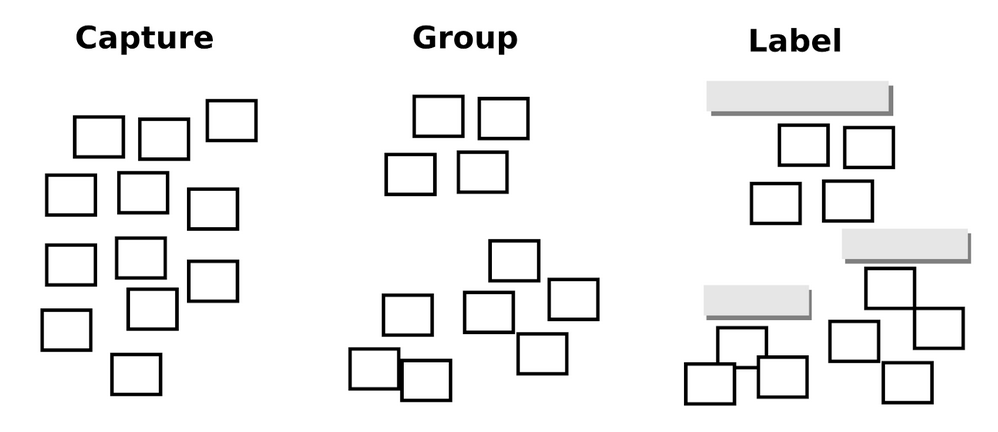
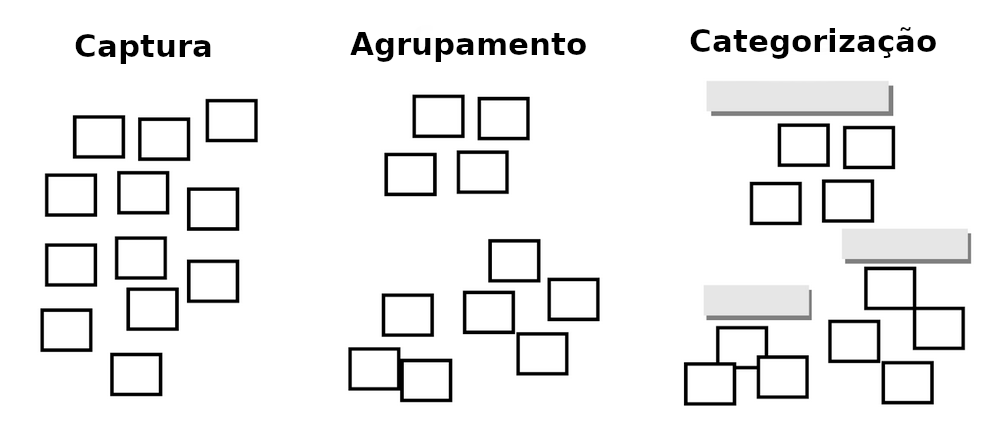
Estado da arte revisado

Changed region(s): [[0.3417, 0.0602, 0.5902, 0.1505], [0.6834, 0.0602, 0.9629, 0.1505], [0.0621, 0.0602, 0.2174, 0.1505]]

diff --git a/03_estado_arte.tex b/03_estado_arte.tex
@@ -1,21 +1,21 @@
 \chapter{Trabalhos Relacionados}
 \label{c_estado_arte}
 
-Este capítulo apresenta trabalhos similares ao que se propõe nesta pesquisa. Ele está dividido em três seções. A \autoref{sec_tools} apresenta ferramentas que buscam auxiliar crianças nos primeiros contatos com algoritmos por meio da depuração. A \autoref{sec_rsl} apresenta uma revisão sistemática da literatura (RSL) sobre pesquisas que observam a interação de crianças de 3 a 6 anos com BPs. A intenção é compreender quais interfaces são comumente utilizadas, quais são os designs experimentais aplicados e que resultados são obtidos, para fundamentar a escolha do design experimental desta pesquisa. Por fim, a \autoref{secao_mapeamento_industrial} apresenta um mapeamento industrial\footnote{Método de busca baseado em fontes não acadêmicas, mas que segue um método sistemático. Também chamado de mapeamento industrial sistemático.} sobre as interfaces de BPs, que demonstra quais tipos de interface estão disponíveis no comércio eletrônico. %Enquanto na \autoref{sub_sub_aplicacoes_ra_projetiva_educacao} apresenta aplicação de RA projetiva em ferramentas educacionais, o mapeamento indica que a técnica   no contexto de BPs.
+Este capítulo apresenta trabalhos similares ao que se propõe nesta pesquisa. Ele está dividido em três seções. A \autoref{sec_tools} apresenta ferramentas que buscam auxiliar crianças nos primeiros contatos com algoritmos por meio da depuração. A \autoref{sec_rsl} apresenta uma revisão sistemática da literatura (RSL) sobre pesquisas que observam a interação de crianças de 3 a 6 anos com BPs. O objetivo desta revisão é compreender quais interfaces são comumente utilizadas, os designs experimentais aplicados e resultados obtidos, para fundamentar a escolha do design experimental desta pesquisa. Por fim, a \autoref{secao_mapeamento_industrial} apresenta um mapeamento industrial\footnote{Método de busca baseado em fontes não acadêmicas, mas que segue um método sistemático. Também denominado mapeamento industrial sistemático.} sobre as interfaces de BPs, que demonstra quais categorias de interfaces estão disponíveis no comércio eletrônico.
 
 \section{Interfaces de Brinquedos Programáveis}
 \label{sec_tools}
-Esta seção tem por objetivo demonstrar interfaces para crianças terem os primeiros contatos com algoritmos utilizando BPs. Para isso, identifica as características de cada trabalho e compara com a solução proposta. Os critérios utilizados para a escolha dos trabalhos relacionados foram o público-alvo (crianças a partir dos 4 anos), a visibilidade dos algoritmos por meio de interfaces tangíveis e o uso de BPs. Assim, foram analisados quatro trabalhos:
+Esta seção demonstra interfaces destinadas para crianças terem os primeiros contatos com algoritmos utilizando BPs. Para isso, identifica as características de cada trabalho e compara com a solução proposta. Os critérios utilizados para a escolha dos trabalhos relacionados foram: a) o público-alvo (crianças a partir dos 4 anos), b) a visibilidade dos algoritmos através de interfaces tangíveis e c) o uso de BPs. Assim, foram analisados quatro trabalhos:
 
 \begin{enumerate}
     \item Robo-Blocks: uma interface tangível eletrônica para programação de BPs, com foco em ensino de depuração \cite{sipitakiat_robo-blocks_2012}.
-    \item Cubetto: um BP com interface tangível de painel, que indica a execução de cada comando por meio de luzes (\url{https://www.primotoys.com}).
-    \item Bee-Bot com mesa interativa: uma mesa interativa com objetos tangíveis, que projeta um mapa interativo que reage aos posicionamento dos objetos físicos em sua superfície \cite{beraza_soft_2010}.
-    \item ALERT: interface de programação interativa, na qual o BP interpreta comandos à medida que os detecta via câmera \cite{burleson_active_2018}.
+    \item Cubetto: um BP com interface tangível de painel, que indica a execução de cada comando por luzes (\url{https://www.primotoys.com}).
+    \item Bee-Bot com mesa interativa: uma mesa interativa com objetos tangíveis, que projeta um mapa interativo que reage ao posicionamento dos objetos físicos em sua superfície \cite{beraza_soft_2010}.
+    \item ALERT: interface de programação interativa, em que o BP interpreta comandos à medida que os detecta via câmera \cite{burleson_active_2018}.
 \end{enumerate}
 
 \subsection{Robo-Blocks}
-O Robo-Blocks, de \citeonline{sipitakiat_robo-blocks_2012}, é um sistema que permite que crianças comandem um BP por meio do encaixe de blocos eletrônicos. Os quatro movimentos básicos do robô são iguais aos do brinquedo RoPE (mover-se para frente, para trás, girar à esquerda e girar à direita), porém as crianças também podem parametrizar a extensão do movimento do robô ajustando um controle giratório presente em cada bloco (\autoref{fig:robo_blocks}). Os blocos são encaixados por conectores magnéticos, formando uma sequência. Essa sequência se liga a um bloco principal, que envia os comandos ao BP por comunicação sem fio. O BP, por sua vez, é inspirado na tartaruga do ambiente Logo. Ele tem uma caneta acoplada que permite desenhar ao serem utilizados blocos de \textit{"pen up"} (erguer caneta) e \textit{"pen down"} (baixar caneta).
+O Robo-Blocks, de \citeonline{sipitakiat_robo-blocks_2012}, é um sistema que permite que crianças comandem um BP por meio do encaixe de blocos eletrônicos. Os quatro movimentos básicos do robô são iguais aos do brinquedo RoPE (mover-se para frente, para trás, girar à esquerda e girar à direita), porém as crianças também podem parametrizar a extensão do movimento do robô ajustando um controle giratório presente em cada bloco (\autoref{fig:robo_blocks}). Os blocos são encaixados por conectores magnéticos, formando uma sequência. Essa sequência se liga a um bloco principal, que envia os comandos ao BP por comunicação sem fio. O BP é inspirado na tartaruga do ambiente Logo. Ele tem uma caneta acoplada que permite desenhar ao serem utilizados blocos de \textit{"pen up"} (erguer caneta) e \textit{"pen down"} (baixar caneta).
 
 \begin{figure}[!h]
     \centering
@@ -102,12 +102,12 @@ Com relação à depuração, a programação interativa se apresenta como um di
 
 As seções anteriores apresentaram quatro trabalhos relacionados com programação de brinquedos programáveis.. Esta seção compara estes trabalhos quanto às seguintes características: idade do público-alvo, tipo de interface, e depuração (\autoref{quadro:comparision}). Por fim, os trabalhos são posicionados em relação à solução proposta.
 
-Em relação ao público-alvo, o Robo-Blocks foca em crianças de 8 a 9 anos, pois a criança precisa entender basicamente o significado dos algarismos numéricos ao parametrizar o ângulo do giro do robô, e nesta idade as crianças normalmente aprenderam ler \cite{committee_on_the_prevention_of_reading_difficulties_in_young_children_preventing_1998}. Em contrapartida, o Cubetto, a Bee-Bot\footnote{Existem versões com texto nos botões \it{clear}, \it{go} e \it{pause}, mas os botões provocam sempre o mesmo comportamento. Mesmo que não saiba ler, a criança consegue mapear a ação do botão com sua funcionalidade.} e o ALERT não dependem diretamente de números, e por isso atendem um público a partir dos 4 anos.
+Em relação ao público-alvo, o Robo-Blocks foca em crianças de 8 a 9 anos, pois a criança precisa entender basicamente o significado dos algarismos numéricos ao parametrizar o ângulo do giro do robô, e nesta idade as crianças normalmente já aprenderam a ler \cite{committee_on_the_prevention_of_reading_difficulties_in_young_children_preventing_1998}. Em contrapartida, o Cubetto, a Bee-Bot\footnote{Existem versões com texto nos botões \it{clear}, \it{go} e \it{pause}, mas os botões provocam sempre o mesmo comportamento. Mesmo que não saiba ler, a criança consegue mapear a ação do botão com sua funcionalidade.} e o ALERT não dependem diretamente de números, e atendem um público a partir dos 4 anos.
 
-Com relação ao tipo de interface, todos os trabalhos utilizam interface tangível, mas seguindo diferentes abordagens. O Robo-Blocks tem blocos eletrônicos, que são encaixados entre si e possuem um display que mostra o tamanho do avanço ou giro. A programação do Cubetto também se dá por blocos tangíveis, porém sem visores e controles ajustáveis. Tudo o que a criança faz é encaixar os blocos em um painel. O ALERT tem blocos ainda mais simples. Foram usadas folhas de papel com as marcas fiduciais impressas, o que tende a ser mais barato e fácil de reproduzir. Por fim, a interface tangível da Bee-Bot não tem blocos, mas sim botões  \cite{yu_review_2019}. Apesar das diferentes abordagens, todos os trabalhos mencionam engajamento das crianças durante as interações, sejam elas com blocos eletrônicos, com as folhas de papel ou com os botões.
+Com relação à interface, todos os trabalhos utilizam interface tangível, mas seguindo diferentes abordagens. O Robo-Blocks tem blocos eletrônicos encaixados entre si e que possuem um display que mostra o tamanho do avanço ou giro. A programação do Cubetto também se dá por blocos tangíveis, porém sem visores e controles ajustáveis. Tudo o que a criança faz é encaixar os blocos em um painel. O ALERT tem blocos ainda mais simples. Foram usadas folhas de papel com as marcas fiduciais impressas, o que tende a ser mais barato e fácil de reproduzir. Por fim, a interface tangível da Bee-Bot não tem blocos, mas sim botões  \cite{yu_review_2019}. Apesar das diferentes abordagens, todos os trabalhos mencionam engajamento das crianças durante as interações, sejam elas com blocos eletrônicos, com as folhas de papel ou com os botões.
 
 Por fim, em relação à depuração, o Robo-Blocks é a interface com maior foco em facilitar a atividade de encontrar erros em algoritmos. Isso se dá por duas características: marcadores físicos (bandeiras) para indicar possíveis erros, e a função de execução passo a passo.
-No ALERT, os elementos de execução passo a passo são menos necessários. O brinquedo se move lentamente, e com isso há mais tempo para a criança olhar os comandos e comparar com os movimentos do robô. Além disso, o algoritmo pode ser alterado durante a execução. Se um comando desvia o brinquedo da rota, os passos subsequentes podem ser alterados para reajustá-la. A associação entre comando e ação também é mais óbvia no ALERT, pois o brinquedo precisa se aproximar do comando a ser executado. Quando um erro ocorre, fica claro qual foi o comando responsável. Quando os blocos eletrônicos ficam distântes do brinquedo esse mapeamento entre comando e ação é menos óbvio. Segundo  \citeonline{sipitakiat_robo-blocks_2012} as funções de depuração foram uma tentativa de resolver esse problema de mapeamento. A depuração no Cubetto é similar ao Robo-Blocks, pois o painel de programação fica distante do robô. Além disso, o Cubetto não tem execução passo a passo. Por fim, a interface de RA utilizada com a Bee-Bot  \cite{beraza_soft_2010} não tem visibilidade de código e nem funções de execução passo a passo, mas é similar ao trabalho aqui apresentado devido às tecnologias empregadas.
+No ALERT, os elementos de execução passo a passo são menos necessários. O brinquedo se move lentamente, e com isso há mais tempo para a criança olhar os comandos e comparar com os movimentos do robô. Além disso, o algoritmo pode ser alterado durante a execução. Se um comando desvia o brinquedo da rota, os passos subsequentes podem ser alterados para reajustá-la. A associação entre comando e ação também é mais óbvia no ALERT, pois o brinquedo precisa se aproximar do comando a ser executado. Quando um erro ocorre, fica claro qual foi o comando responsável. Quando os blocos eletrônicos ficam distantes do brinquedo esse mapeamento entre comando e ação é menos óbvio. Segundo  \citeonline{sipitakiat_robo-blocks_2012} as funções de depuração foram uma tentativa de resolver esse problema de mapeamento. A depuração no Cubetto é similar ao Robo-Blocks, pois o painel de programação fica distante do robô. Além disso, o Cubetto não tem execução passo a passo. Por fim, a interface de RA utilizada com a Bee-Bot  \cite{beraza_soft_2010} não tem visibilidade de código e nem funções de execução passo a passo, mas é similar ao trabalho aqui apresentado devido às tecnologias empregadas.
 
 {{\renewcommand{\arraystretch}{1.5}
     \begin{quadro}[!h]
@@ -117,10 +117,10 @@ No ALERT, os elementos de execução passo a passo são menos necessários. O br
         \textbf{Projeto ou ferramenta}  & \textbf{Idade do público-alvo}  & \textbf{Tipo de interface}       &\textbf{Depuração}                                          \\ \hline
         
         Robo-Blocks                     & 8 a 9 anos                      & Tangível com blocos eletrônicos  & Execução passo a passo, protractor e marcadores de erros   \\ \hline
-        Cubetto                         & 4 a 8 anos                      & Tangível com painel eletrônico   & Destaca blocos em execução                                 \\ \hline
+        Cubetto                         & 4 a 8 anos                      & Tangível com painel eletrônico   & Destaca os blocos em execução                                 \\ \hline
         Bee-Bot com mesa interativa     & 4-5 a 12-14 anos                & Tangível com botões              & -                                  \\ \hline
         ALERT                           & 6 anos                          & Tangível com projeção            & Permite alterar o comportamento do robô durante a execução \\ \hline
-        RoPE AR                   & 4 a 6 anos                      & Tangível com projeção            & Destaca blocos em execução                                 \\ \hline
+        RoPE AR                   & 4 a 6 anos                      & Tangível com projeção            & Destaca os blocos em execução                                 \\ \hline
         \end{tabularx}
         \vspace{-10pt}
         \sourceauthor
@@ -135,12 +135,12 @@ Por fim, um último diferencial é que no RoPE AR a projeção ocorre por cima, 
 
 \section{Revisão Sistemática: Pesquisas de IHC com crianças}
 \label{sec_rsl}
-Para compreender como são feitas as pesquisas sobre brinquedos programáveis com crianças, o método utilizado foi o de revisão sistemática \cite{kitchenham_guidelines_2007}. Esse método é um tipo de estudo que revisa estudos a respeito de uma pergunta de pesquisa, tópico ou fenômeno de interesse. No processo busca-se identificar, avaliar e interpretar as publicações relevantes para o tema em questão, e evitar o viés de quem produziu a pesquisa. Três questões exploratórias guiaram a busca:
+Para compreender como são feitas as pesquisas sobre brinquedos programáveis com crianças, o método utilizado foi o de revisão sistemática \cite{kitchenham_guidelines_2007}. Esse método revisa estudos a respeito de uma pergunta de pesquisa, tópico ou fenômeno de interesse. No processo busca-se identificar, avaliar e interpretar as publicações relevantes para o tema em questão, e evitar o viés de quem produziu a pesquisa. Três questões exploratórias guiaram a busca:
 
 \begin{itemize}
-    \item QE1 - Quais tipos de interfaces são usadas em pesquisas sobre aprendizado de algoritmos na Educação Infantil?
-    \item QE2 - Quais métodos e design de experimentos são utilizados?
-    \item QE3 - O que as crianças aprendem ao interagir com brinquedos programáveis?
+    \item QE1 — Quais categorias de interfaces são usadas em pesquisas sobre aprendizado de algoritmos na Educação Infantil?
+    \item QE2 — Quais métodos e design de experimentos são utilizados?
+    \item QE3 — O que as crianças aprendem ao interagir com brinquedos programáveis?
 \end{itemize}
 
 A seguinte busca foi adaptada para os artigos publicados nos anos de 2015 a 2020 nos repositórios ACM Digital Library, ERIC, IEEE Xplore e Science Direct:
@@ -149,7 +149,7 @@ A seguinte busca foi adaptada para os artigos publicados nos anos de 2015 a 2020
 
 \subsection{Resultados}
 
-Sobre os resultados obtidos com as buscas nos repositórios, foram aplicados os critérios de inclusão e exclusão primeiramente sobre os resumos e depois sobre o texto completo (\autoref{quadro_criterios}). Após a aplicação dos critérios, restaram 7 artigos.
+Sobre os resultados obtidos com as buscas nos repositórios foram aplicados os critérios de inclusão e exclusão, primeiramente sobre os resumos e em seguida sobre o texto completo (\autoref{quadro_criterios}). Com isso restaram 7 artigos.
 
 \begin{quadro}[!htbp]
 \caption{Critérios de inclusão e exclusão.}
@@ -163,7 +163,7 @@ Sobre os resultados obtidos com as buscas nos repositórios, foram aplicados os 
     \begin{minipage}{.45\textwidth}
         1. Estudos primários indicando intervenção relacionada a ensino/aprendizado de algoritmos na Educação Infantil \\
         2. Estudos publicados entre 2015 e 2020 \\
-        3. Estudos com crianças entre 3 e 6 anos \\
+        3. Público com idade entre 3 e 6 anos \\
     \end{minipage}
     
     &
@@ -175,8 +175,8 @@ Sobre os resultados obtidos com as buscas nos repositórios, foram aplicados os 
         3. Foco em formar professores \\
         4. Menos de 5 páginas  \\
         5. Estudos secundários ou terciários \\
-        6. Estudos focados em público-alvo diferente desta pesquisa \\
-        7. Estudos duplicados \\
+        6. Público-alvo diferente desta pesquisa \\
+        7. Publicações duplicadas \\
         8. Estudo que não aborda criação de algoritmos por crianças \\
         9. Estudo cujo texto completo não foi possível acessar \\
     \end{minipage}
@@ -186,7 +186,7 @@ Sobre os resultados obtidos com as buscas nos repositórios, foram aplicados os 
  \end{tabular}
 \end{quadro}
 
-O critério de inclusão 3 (idade entre 3 a 6 anos) filtrou 82 trabalhos, pois grande parte dos estudos tem público-alvo maior de 6 anos. O segundo critério que filtrou mais artigos (CI1) aplicou-se a 30 artigos que não apresentaram nenhum tipo de intervenção com crianças, a fim de mensurar resultados como a qualidade de alguma ferramenta ou aprendizado de algoritmos. Outros 15 trabalhos focaram em públicos específicos que se diferenciam do público desta pesquisa, e portanto foram desconsiderados. O \autoref{quadroartigosrsl} apresenta os artigos que passaram no filtro.
+O critério de inclusão 3 (idade entre 3 a 6 anos) filtrou 82 trabalhos com um público-alvo de crianças maiores de 6 anos. O segundo critério que filtrou mais artigos (CI1) filtrou 30 artigos que não apresentaram nenhuma intervenção com crianças para mensurar resultados de alguma ferramenta ou aprendizado de algoritmos. Outros 15 trabalhos focaram em públicos específicos que se diferenciam do público desta pesquisa. O \autoref{quadroartigosrsl} apresenta os artigos que passaram no filtro.
 
 \begin{table}[!htbp]
     \begin{center}
@@ -256,16 +256,16 @@ O critério de inclusão 3 (idade entre 3 a 6 anos) filtrou 82 trabalhos, pois g
     \citeonline{pila_learning_2019}
     \textit{Learning to code via tablet applications: An evaluation of Daisy the Dinosaur and Kodable as learning tools for young children} &
     
-    Pesquisa qualitativa com pré e pós teste. 28 crianças de 4 a 6 anos usaram, durante uma semana, 2 aplicativos para ensino de programação (Kodable e Daisy the Dinossaur). A pesquisa captou o quanto as crianças gostaram de cada aplicativo e a influência do gênero no desempenho. Também foi avaliado o reconhecimento de comandos antes e após a intervenção, com notas de 0 a 5 conforme \citeonline{bers_computational_2014}. &
+    Pesquisa qualitativa com pré e pós teste. Vinte e oito crianças de 4 a 6 anos usaram, durante uma semana, 2 aplicativos para ensino de programação (Kodable e Daisy the Dinossaur). A pesquisa captou o quanto as crianças gostaram de cada aplicativo e a influência do gênero no desempenho. Também foi avaliado o reconhecimento de comandos antes e após a intervenção, com notas de 0 a 5 conforme \citeonline{bers_computational_2014}. &
     
     Testes t identificaram um aumento significativo no reconhecimento dos comandos do aplicativo Daisy. Após uma semana foi possível identificar a compreensão de habilidades gerais de codificação. O “apelo” do aplicativo teve correlação com o aprendizado resultante, e o gênero não afetou o desempenho. \\ \hline
     
     \citeonline{burleson_active_2018}
     \textit{Active Learning Environments with Robotic Tangibles: Children's Physical and Virtual Spatial Programming Experiences} &
     
-    Pesquisa qualitativa comparando o uso de duas ferramentas de programação espacial, sendo uma virtual e outra tangível (Robopad e ALERT). 9 crianças de 6 anos, divididas em 4 grupos, interagiram durante 5 dias (num calendário de 2 semanas) com ambas as ferramentas. &
+    Pesquisa qualitativa comparando o uso de duas ferramentas de programação espacial, sendo uma virtual e outra tangível (Robopad e ALERT). Nove crianças de 6 anos, divididas em 4 grupos, interagiram durante 5 dias (num calendário de 2 semanas) com ambas as ferramentas. &
     
-    Usando o ALERT as crianças foram capazes de programar, colaborativamente, sequências para alterar o comportamento do robô. A ferramenta Robopad induziu mais a alterar/depurar o “programa” em tempo de execução.  \\ \hline
+    Usando o ALERT as crianças programaram, colaborativamente, sequências para alterar o comportamento do robô. A ferramenta Robopad induziu mais a alterar/depurar o “programa” em tempo de execução.  \\ \hline
     
     \citeonline{heljakka_gamified_2019}
     \textit{Gamified Coding: Toy Robots and Playful Learning in Early Education} &
@@ -281,15 +281,15 @@ O critério de inclusão 3 (idade entre 3 a 6 anos) filtrou 82 trabalhos, pois g
 
 \end{landscape}
 
-\subsection{QE1 - Quais tipos de interfaces são usadas em pesquisas sobre aprendizado de algoritmos na Educação Infantil? }
+\subsection{QE1 — Quais categorias de interfaces são usadas em pesquisas sobre aprendizado de algoritmos na Educação Infantil?}
 
-O tipo de interface mais citado nos resultados foram os brinquedos controlados por botões. A Bee-Bot apareceu em duas pesquisas, e outros brinquedos programados por botões foram a TurtleBot e o Botley. Aplicativos citados foram o ScratchJr, a interface do Dash, o Kodable, e \textit{Daisy the Dinossaur}. Outro tipo de interface citado é a espacial: \citeonline{burleson_active_2018} apresenta o ALERT e o Robopad, em que os agentes se movem no espaço e captam os comandos do ambiente.
+A categoria de interface mais citada foram os brinquedos controlados por botões. A Bee-Bot apareceu em duas pesquisas, e outros brinquedos programados por botões foram a TurtleBot e o Botley. Aplicativos citados foram o ScratchJr, a interface do Dash, o Kodable, e \textit{Daisy the Dinossaur}. Outra interface citada é a espacial: \citeonline{burleson_active_2018} apresenta o ALERT e o Robopad, em que os agentes se movem no espaço e captam os comandos do ambiente.
 
-Além das interfaces, outra variável a ser considerada são os tipos de atividades realizadas. Uma mesma interface, utilizada de modos diferentes, pode gerar diferentes aprendizados. A sequência de atividades do TangibleK Robotics Currículum, desenvolvida por \citeonline{bers_computational_2014} foi aplicada por \citeonline{repiso_robotics_2019} e por \citeonline{pila_learning_2019}. Dividida em 7 encontros, o primeiro dia de atividades iniciou com a exploração da interface da Bee-Bot, seguida (nos dias 2 e 3) da programação do brinquedo para se deslocar sobre tapetes. Nos dias 4 e 5 foram introduzidas cartas correspondentes às instruções, para serem sequenciadas e depois comparadas com os movimentos do brinquedo. Nos dias 6 e 7 foram mostradas sequências de comandos com erros, e as crianças exercitaram a depuração ao encontrar esses erros.
+Além das interfaces, outra variável a ser considerada são as atividades realizadas. Uma mesma interface, utilizada de modos diferentes, pode gerar diferentes aprendizados. A sequência de atividades do TangibleK Robotics Curriculum, desenvolvida por \citeonline{bers_computational_2014} foi aplicada por \citeonline{repiso_robotics_2019} e por \citeonline{pila_learning_2019}. Dividida em 7 encontros, o primeiro dia de atividades iniciou com a exploração da interface da Bee-Bot, seguida (nos dias 2 e 3) da programação do brinquedo para se deslocar sobre tapetes. Nos dias 4 e 5 foram introduzidas cartas correspondentes às instruções, para serem sequenciadas e depois comparadas com os movimentos do brinquedo. Nos dias 6 e 7 foram mostradas sequências de comandos com erros, e as crianças exercitaram a depuração ao encontrar esses erros.
 
-\citeonline{di_lieto_educational_2017} apresenta atividades de dificuldade incremental, em que as crianças precisavem programar a Bee-Bot para se deslocar sobre um tapete de formas cada vez mais complexas. \citeonline{heljakka_gamified_2019} não definiram nenhuma atividade específica para as crianças, apenas permitiram a exploração dos brinquedos Botley e Dash por 6 meses.
+\citeonline{di_lieto_educational_2017} apresenta atividades de dificuldade incremental, em que as crianças precisavam programar a Bee-Bot para se deslocar sobre um tapete de formas cada vez mais complexas. \citeonline{heljakka_gamified_2019} não definiram nenhuma atividade específica para as crianças, apenas permitiram a exploração dos brinquedos Botley e Dash por 6 meses.
 
-\subsection{QE2 - Quais métodos e design de experimentos são utilizados?}
+\subsection{QE2 — Quais métodos e design de experimentos são utilizados?}
 
 O método mais utilizado foi a pesquisa quasi-experimental, com pré e pós teste. Das 7 pesquisas, 4 foram quantitativas, 2 qualitativas e uma mista. Além disso, \citeonline{nam_connecting_2019} e \citeonline{repiso_robotics_2019} utilizaram grupos de controle e experimental.
 
@@ -297,13 +297,13 @@ O tempo das intervenções variou consideravelmente. As pesquisas objetivando me
 
 As amostras utilizadas foram de conveniência, com experimentos realizados nos ambientes escolares. O tamanho das amostras variou entre 9 e 31 crianças, que trabalharam em grupos em 6 das 7 pesquisas. As fontes de dados utilizadas foram vídeos, mapa de eventos, rubricas, transcrições, e entrevistas.
 
-\subsection{QE3 - O que as crianças aprendem ao interagir com brinquedos programáveis?}
+\subsection{QE3 — O que as crianças aprendem ao interagir com brinquedos programáveis?}
 
-Os trabalhos citam principalmente o aprendizado de sequenciamento e de algoritmos em geral. \citeonline{pila_learning_2019}, após a interação de um conjunto de crianças durante 5 dias com os aplicativos Daisy e Kodable, perguntaram às crianças “O que é programar?”. A nota máxima foi dada a respostas que apresentavam a ideia de causa e efeito aplicável à tecnologia em geral, por exemplo “programar é colocar código em algo para que faça alguma ação”. Os resultados indicaram que as crianças não evoluíram na capacidade de expressar verbalmente seu entendimento de codificação.
+Os trabalhos citam principalmente o aprendizado de sequenciamento e de algoritmos em geral. \citeonline{pila_learning_2019}, após a interação de um conjunto de crianças durante 5 dias com os aplicativos Daisy e Kodable, perguntaram às crianças “O que é programar?”. A nota máxima foi dada a respostas que apresentavam a ideia de causa e efeito aplicável à tecnologia em geral, por exemplo “programar é colocar código em algo para fazer alguma ação”. Os resultados indicaram que as crianças não evoluíram na capacidade de expressar verbalmente seu entendimento de codificação.
 
-Um outro aspecto da compreensão algorítmica avaliado por \citeonline{repiso_robotics_2019} e \citeonline{pila_learning_2019} é a compreensão dos símbolos da interface. \citeonline{repiso_robotics_2019} investigaram a compreensão sobre a correspondência entre ação e instrução, que significa mapear qual ação o robô executa em correspondência a um símbolo. A partir das rubricas os pesquisadores identificaram uma evolução significativa no grupo experimental. \citeonline{pila_learning_2019} mostrou quatro símbolos da interface do aplicativo Daisy para as crianças e solicitou que explicassem verbalmente o significado do símbolo. No pré-teste a média de acerto foi de 0.5 e no pós-teste esse valor subiu para 2.3.
+Outro aspecto avaliado por \citeonline{repiso_robotics_2019} e \citeonline{pila_learning_2019} é a compreensão dos símbolos da interface. \citeonline{repiso_robotics_2019} investigaram a compreensão sobre a correspondência entre ação e instrução, que significa mapear qual ação o robô executa em correspondência a um símbolo. A partir das rubricas os pesquisadores identificaram uma evolução significativa no grupo experimental. \citeonline{pila_learning_2019} mostrou quatro símbolos da interface do aplicativo Daisy para as crianças e solicitou que explicassem verbalmente o significado do símbolo. No pré-teste a média de acerto foi de 0,5 e no pós-teste esse valor subiu para 2,3.
 
-\citeonline{nam_connecting_2019} avançaram nessa compreensão e utilizaram um instrumento para captar a compreensão de sequências. O instrumento utilizado solicita que crianças organizem 4 imagens que mostram eventos sequenciais, dada a imagem inicial. Os resultados apontaram evolução significativa na pontuação de sequenciamento para o grupo experimental.
+\citeonline{nam_connecting_2019} avançaram nessa questão e captaram a compreensão de sequências. O instrumento utilizado solicita que, dada uma imagem, outras 4 imagens com eventos sequenciais sejam organizados. Aplicando essa técnica com crianças de 4 anos, os resultados apontaram evolução significativa na nota de sequenciamento para o grupo experimental.
 
 \section{Mapeamento Industrial: Interfaces de Brinquedos Programáveis}
 \label{secao_mapeamento_industrial}
@@ -315,14 +315,14 @@ O mapeamento industrial buscou encontrar o maior número possível de brinquedos
     \item Definição dos critérios para filtrar os resultados
 \end{enumerate}
 
-As próximas subseções detalham essas etapas da forma mais transparente possível.
+As próximas subseções detalham essas etapas.
 
 \subsection{Questões de Pesquisa}
 
 Três questões exploratórias guiaram o processo de busca:
 
 \begin{enumerate}
-    \item Quais são os tipos de interfaces mais frequentemente utilizados em brinquedos programáveis?
+    \item Quais são as categorias de interfaces mais frequentemente utilizadas em brinquedos programáveis?
     \item Como a realidade aumentada é aplicada em brinquedos programáveis?
     \item Quais são os conceitos de algoritmos abordados?
 \end{enumerate}
@@ -341,17 +341,15 @@ Seguindo a estratégia também apresentada no mapeamento feito por \citeonline{k
     \item Vídeos do Youtube
 \end{itemize}
 
-Além destas fontes, uma lista de páginas online selecionadas pelo orientador desta pesquisa durante estudos sobre o tema contribuiu como fonte de busca.
-
-A string de busca foi aplicada nos sites que oferecem campos de pesquisa. Outra fonte de busca foram as categorizações de produtos existentes nos websites. O site kickstarter.com, por exemplo, tem uma área específica sobre projetos de robótica, enquanto a plataforma amazon.com possui uma categoria de produtos denominada \textit{coding toys}. Essas categorizações foram consultadas e os resultados adicionados aos resultados da busca textual. Por fim, a abrangência do mapeamento foi validada por meio da consulta de artigos de revisão a fim de encontrar brinquedos faltantes. Nessa etapa 5 brinquedos foram adicionados.
+A string de busca foi aplicada nos sites que oferecem campos de pesquisa. Outra fonte de busca foram listas de produtos categorizados pelos sites consultados. O site kickstarter.com, por exemplo, tem uma área específica sobre projetos de robótica, enquanto a plataforma amazon.com possui uma categoria de produtos denominada \textit{coding toys}. Essas pré-categorizações foram adicionados aos resultados da busca textual. Por fim, a abrangência do mapeamento foi validada por meio da consulta de artigos de revisão de modo a encontrar brinquedos faltantes. Cinco brinquedos foram adicionados nesta etapa.
 
 \subsection{Filtro}
-Os critérios de inclusão foram três. Primeiramente, a presença de alguma forma de inserir comandos a serem executados pelo brinquedo. O segundo critério é a presença de algum componente tangível, ou seja, aplicativos sem interação com brinquedo físico foram descartados. O último critério é a presença de algum componente eletrônico, de forma que haja um processamento dos comandos programados para controlar sua execução. Esse critério eliminou os jogos de tabuleiro e livros de programação \cite{hamilton_emerging_2020}.
+Três critérios guiaram a inclusão dos brinquedos nos resultados. Primeiramente, a presença de alguma forma de inserir comandos a serem executados pelo brinquedo. O segundo critério é a presença de algum componente tangível, ou seja, aplicativos sem interação com brinquedo físico foram descartados. O último critério é possuir algum componente eletrônico, de forma que haja um processamento dos comandos programados para controlar sua execução. Esse critério eliminou os jogos de tabuleiro e livros de programação \cite{hamilton_emerging_2020}.
 
 Após encontrar brinquedos adequados aos critérios de inclusão, a próxima etapa foi obter dados sobre as interfaces de programação. Para cada brinquedo foi executada uma pesquisa por vídeos demonstrando o uso do brinquedo. Outras fontes de dados foram as descrições presentes nas páginas de comércio eletrônico e páginas dos fabricantes.
 
 \subsection{Resultados}
-Um total de 86 brinquedos resultaram do processo de busca. Destes, 56 serviram como objeto de análise para responder às três perguntas de pesquisa. Os outros 30 brinquedos não foram analisados por terem sido adicionados à lista posteriormente ou por serem versões similares de algum dos brinquedos analisados. Os resultados estão disponíveis no endereço \url{https://bit.ly/35cUbZ1}. O \autoref{quadro:toys_reviewed} sumariza os brinquedos utilizados na análise.
+Um total de 86 brinquedos resultaram do processo de busca. Destes, 56 serviram como objeto de análise para responder às três perguntas de pesquisa. Os outros 30 brinquedos não foram analisados, dado que foram adicionados posteriormente aos resultados ou por serem versões similares de algum dos brinquedos analisados. Os resultados estão disponíveis no endereço \url{https://bit.ly/35cUbZ1}. O \autoref{quadro:toys_reviewed} sumariza os brinquedos utilizados na análise.
 \begin{landscape}
 \linespread{1}
 \begin{quadro}
@@ -422,7 +420,7 @@ Um total de 86 brinquedos resultaram do processo de busca. Destes, 56 serviram c
 \end{small}
 \end{landscape}
 
-Mais de 80\% dos brinquedos foram lançados a partir de 2014, ano seguinte ao aumento de interesse pelo tema do \acl{PC}. A \autoref{toys_year} demonstra o número de brinquedos lançados por ano, e, comparado com a \autoref{pc_interest}, há uma semelhança no crescimento e no período de aumento. Isso sugere que os brinquedos estão sendo lançados comercialmente em resposta à uma demanda no campo educacional.
+Quarenta e seis brinquedos (85\%) foram lançados a partir de 2014, ano seguinte ao aumento no interesse pelo tema do \acl{PC}. A \autoref{toys_year} demonstra o número de brinquedos lançados por ano, e, comparado com a \autoref{pc_interest}, há crescimento no número de brinquedos lançados a partir de 2013. Portanto, pode haver uma relação entre o interesse pelo \acl{PC} e \ac{BPs} no mesmo período.
 
 \begin{figure}[!htbp]
     \centering
@@ -440,9 +438,9 @@ Mais de 80\% dos brinquedos foram lançados a partir de 2014, ano seguinte ao au
     \sourceauthor
 \end{figure}
 
-\subsection{QE1 - Quais são os tipos de interfaces mais frequentemente utilizados em brinquedos programáveis?}
+\subsection{QE1 - Quais são as categorias de interfaces mais frequentemente utilizados em brinquedos programáveis?}
 
-A resposta à pergunta \textit{QE1 - Quais são os tipos de interfaces mais frequentemente utilizados em brinquedos programáveis?} depende da perspectiva de análise dessas interfaces. Uma pesquisa pode observar os materiais utilizados, enquanto outra observar as cores e formas. O método utilizado para definir essa perspectiva foi o de Kawakita Jiro \citeonline{scupin_kj_1997}. Esse método busca organizar imagens em grupos em três fases: captura, agrupamento e categorização. Ao final é formado um diagrama de afinidades (\autoref{kj}).
+A resposta à pergunta \textit{QE1 - Quais são as categorias de interfaces mais frequentemente utilizados em brinquedos programáveis?} depende da perspectiva de análise dessas interfaces. Uma pesquisa pode observar os materiais utilizados, enquanto outra observar as cores e formas. O método utilizado para definir essa perspectiva foi o de Kawakita Jiro \citeonline{scupin_kj_1997}. Esse método busca organizar imagens em grupos em três fases: captura, agrupamento e categorização. Ao final é formado um diagrama de afinidades (\autoref{kj}).
 
 \begin{figure}[!htbp]
     \centering
@@ -451,7 +449,7 @@ A resposta à pergunta \textit{QE1 - Quais são os tipos de interfaces mais freq
     \label{kj}
     \sourceauthor
 \end{figure}
-Na fase de captura, foram produzidos recortes de imagens focando nas interfaces dos brinquedos de programar. Essas imagens foram obtidas ao parar vídeos de demonstração dos brinquedos. Após a captura, imagens foram distribuídas em um software online e agrupadas por dois pesquisadores. Possíveis divergências, por exemplo, se blocos com texto e ícones pertencem a uma mesma categoria, foram discutidas e sanadas (\autoref{kj_run}).
+Na fase de captura, foram produzidos recortes de imagens focando nas interfaces dos brinquedos de programar. Essas imagens foram obtidas ao parar vídeos de demonstração dos brinquedos. Após a captura, as imagens foram distribuídas em um software online e agrupadas por dois pesquisadores. Possíveis divergências, por exemplo, se blocos com texto e ícones pertencem a uma mesma categoria, foram discutidas e sanadas (\autoref{kj_run}).
 
 \begin{figure}
     \centering
@@ -465,7 +463,7 @@ O processo resultou em 2 categorias, cada uma com 5 subcategorias. A primeira ca
 As subcategorias elencadas das interfaces virtuais foram:
 \begin{description}
     \item[Código textual: ] Interfaces que usam código digitado em teclados, como as linguagens de propósito geral.
-    \item[Blocos virtuais: ] Peças de quebra-cabeça que são conectadas e representam estruturas de programação.
+    \item[Blocos virtuais: ] Peças de quebra-cabeça que conectadas representam estruturas de programação.
     \item[Máquinas de estado: ] Formas geométricas conectadas por linhas, em que cada forma agrupa ações do brinquedo. As linhas representam eventos que provocam a transição entre os estados.
     \item[Linhas: ] Uma linha é desenhada na tela do dispositivo e o brinquedo se move conforme o seu formato.
     \item[Fluxogramas: ] Formas geométricas conectadas por linhas. Cada forma representa uma ação ou uma decisão.
@@ -518,7 +516,7 @@ Uma vantagem possível dessa abordagem é a proximidade com que o brinquedo fís
 
 \subsection{QE3 - Quais são os conceitos de algoritmos abordados nas interfaces de brinquedos programáveis?}
 
-A abrangência de conceitos de algoritmos abordados por brinquedos programáveis foi analisada nos seguintes conceitos: variáveis, estruturas de repetição, condicionais, listas, recursividade, paralelismo, sequenciamento, funções, parâmetros e eventos. Aspectos como tipos de dados, constantes, orientação a objetos não foram abordados pois são abstraídos na maioria das interfaces.
+A abrangência de conceitos de algoritmos abordados por brinquedos programáveis foi analisada nos seguintes conceitos: variáveis, estruturas de repetição, condicionais, listas, recursividade, paralelismo, sequenciamento, funções, parâmetros e eventos. Aspectos como tipos de dados, constantes, e paradigmas de programação não foram abordados dado que são conceitos abstraídos nessas interfaces.
 
 \begin{figure}[!htbp]
     \centering
@@ -528,12 +526,12 @@ A abrangência de conceitos de algoritmos abordados por brinquedos programáveis
     \sourceauthor
 \end{figure}
 
-A \autoref{fig:toys_concepts} apresenta o resultado da análise. Como o esperado, o sequenciamento é o conceito mais abordado: criar sequências de comandos a serem executados é intrínseco dos brinquedos programáveis. O segundo conceito mais abordado são repetições, por 76\% dos brinquedos. As estruturas de repetição são normalmente suportadas em interfaces virtuais de programação em blocos.
+A \autoref{fig:toys_concepts} apresenta o resultado da análise. Como o esperado, o sequenciamento é o conceito mais abordado: criar sequências de comandos a serem executados é intrínseco dos brinquedos programáveis. O segundo conceito mais abordado (76\% dos brinquedos) são repetições. As estruturas de repetição são normalmente suportadas em interfaces virtuais de programação em blocos.
 
-Outros dois conceitos interligados são condicionais e eventos. 66\% dos brinquedos disparam algum tipo de evento captado por sensores de luminosidade, proximidade, sons, etc. Esses eventos são usados em condicionais para ações do tipo "se obstáculo à frente", "se luminosidade maior que", entre outros.
+Outros dois conceitos interligados são condicionais e eventos. 66\% dos brinquedos disparam algum evento captado por sensores de luminosidade, proximidade, sons, etc. Esses eventos são usados em condicionais para ações do tipo "se obstáculo à frente, vire à esquerda", "se luminosidade maior que 30, toque som", entre outros.
 
-Conceitos mais avançados, como paralelismo, recursividade e vetores são suportados pelos brinquedos que tem interfaces de código textual, com suporte a linguagens de propósito geral. Recursividade e vetores são conceitos suportados por 23\% dos brinquedos.
+Conceitos mais avançados, como paralelismo, recursividade e vetores são suportados pelos brinquedos com interfaces de código textual, com suporte a linguagens de propósito geral. Recursividade e vetores são conceitos suportados por 23\% dos brinquedos.
 
 \section{Considerações}
 
-Por fim, esse capítulo ressalta três aspectos. (i) O mapeamento industrial não apontou uso de realidade aumentada projetiva com brinquedos programáveis. Entretanto (ii) os trabalhos relacionados demonstram que usar projeção em interfaces de programação é viável e abre novas possibilidades de interação, como a programação espacial descrita por \citeonline{burleson_active_2018}. Além disso, o mapeamento indicou (iii) uso de interfaces tangíveis por 55\% dos brinquedos. A proposta apresentada no \autoref{c_desenvolvimento} considera esses três aspectos e busca representar um tipo inovador de interação, ou, ao menos, contribuir com pesquisas que indiquem a adequação da realidade aumentada projetiva aplicada à interfaces de brinquedos programáveis.
+Por fim, esse capítulo ressalta três aspectos. (i) O mapeamento industrial não apontou uso de realidade aumentada projetiva com brinquedos programáveis, ao menos em nível comercial. Entretanto (ii) os trabalhos relacionados demonstram que usar projeção em interfaces de programação é viável e abre novas possibilidades de interação, como a programação espacial\cite{burleson_active_2018}. Além disso, o mapeamento indicou (iii) uso de interfaces tangíveis por 55\% dos brinquedos. A proposta apresentada no \autoref{c_desenvolvimento} considera esses três aspectos e busca representar um tipo inovador de interação, ou, ao menos, contribuir com pesquisas que indiquem a adequação da realidade aumentada projetiva aplicada às interfaces de brinquedos programáveis.
